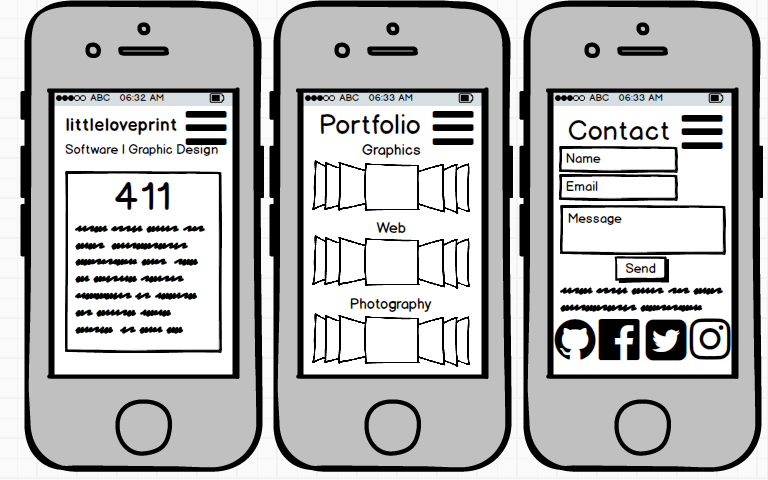
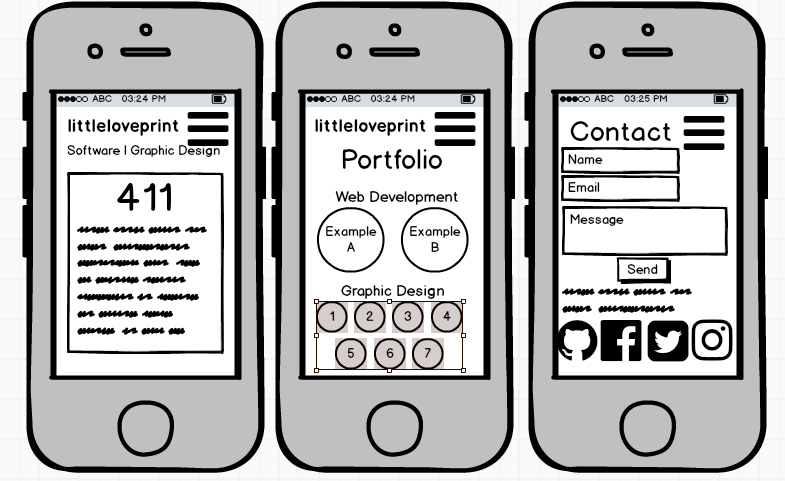
Final changes to pwp milestone 2a!

diff --git a/epic/milestone-2.php b/epic/milestone-2.php
@@ -11,16 +11,14 @@
 		<h2><strong>411:</strong></h2>
 		<p>This section will have information on my professional history, showcase my skillset and personality as well as highlight the programming languages I am most familiar with. My hope is to attract the type of employer I work best with through the professional yet fun and creative look and feel of my web app.</p>
 		<h2><strong>Portfolio:</strong></h2>
-		<p>My hopes are to have three separate, responsive image galleries.
+		<p>My portfolio will consist of two sub sections. The web development section will showcase current websites I am working on or have recently completed. The graphic design section will have a few graphics I've created such as logo designs, infographics and flyers.
 		<ul>
-			<li>Graphics (logos, print designs, promotional GIFs)</li>
-			<li>Web (websites I've created)</li>
-			<li>Photography (staging, styling, photography, and editing)</li>
+			<li>Web Development (websites I've created)</li>
+			<li>Graphic Design (logos, print designs, promotional GIFs)</li>
 		</ul>
-		Included underneath each gallery will be a short outline of my role(s) in each project.</p>
+		Included underneath each sub section will be a short outline of my role(s) in each project.</p>
 		<h2><strong>Contact:</strong></h2>
-		<p>This section will list my professional email address, my universal at handle (social links also listed at top of page), and a contact form.</p>
-		<p><strong></strong></p>
+		<p>This section will list my professional email address, my universal at handle (social links also visible), and a contact form.</p>
 		<img src="img/mobile.png" alt="Mobile Wireframe"><br>
 		<img src="img/desktop.png" alt="Desktop Wireframe">
 	</body>
